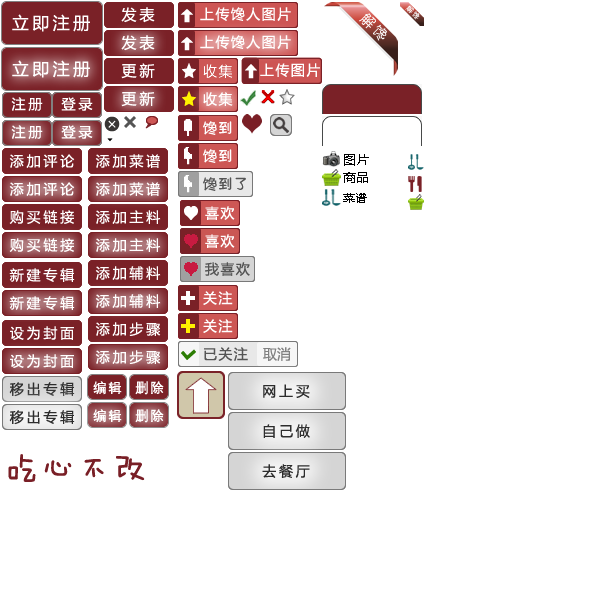
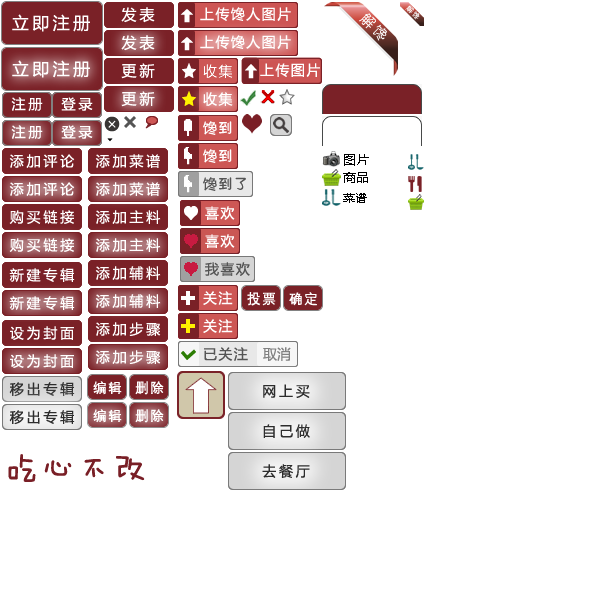
finish some work items

Changed region(s): [[0.39, 0.45, 0.54, 0.54]]

diff --git a/app/assets/stylesheets/buttons.css.scss b/app/assets/stylesheets/buttons.css.scss
@@ -349,3 +349,16 @@ a.btn.btn_edit:hover{
   background: url("buttons.png") -270px -114px no-repeat;
   padding: 0;
 }
+
+.btn.btn_vote {
+    width: 38px;
+    height: 24px;
+    background-position: -242px -286px;
+}
+
+.btn.btn_ok {
+    width: 38px;
+    height: 24px;
+    background-position: -284px -286px;
+}
+

diff --git a/app/models/recipe.rb b/app/models/recipe.rb
@@ -37,7 +37,7 @@ class Recipe
     validates_presence_of :author
     validates_associated :steps
     validates_associated :ingredients
-    validates_length_of :notice, :maximum => 300
+    validates_length_of :notice, :maximum => 400
 
     #callbacks
     #mongoid doesn't call create/update callback on embedded documents

diff --git a/app/models/message.rb b/app/models/message.rb
@@ -14,7 +14,7 @@ class Message
   validates_presence_of :from_id
   validates_presence_of :to_id
   validates_presence_of :content
-  validates_length_of :content, :maximum => 300
+  validates_length_of :content, :maximum => 400
 
   def from
     @from ||= User.first(conditions: {_id: self.from_id})

diff --git a/config/initializers/global_constants.rb b/config/initializers/global_constants.rb
@@ -16,7 +16,7 @@ DESIRE_SOLVED_BAR_RATIO = 0.3
 TAG_CLOUD_COUNT = 50
 CACHED_HOT_TAGS = 50
 MAX_TAGS = 10
-MAX_DESIRE_CONTENT_LENGTH = 280
+MAX_DESIRE_CONTENT_LENGTH = 1000
 HEADLINES_ONE_HOME_PAGE = 4
 INACTIVE_USER_ROLE = 1
 NORMAL_USER_ROLE = 3

diff --git a/app/models/solution.rb b/app/models/solution.rb
@@ -16,7 +16,7 @@ class Solution
   embeds_many :votes
 
   #validations
-  validates_length_of :content, :maximum => 280
+  validates_length_of :content, :maximum => 1000
 
   def item
     @item ||= (place || product || recipe)

diff --git a/app/models/vote.rb b/app/models/vote.rb
@@ -10,7 +10,7 @@ class Vote
   #relationships
   embedded_in :solution
 
-  validates_length_of :content, :maximum => 280
+  validates_length_of :content, :maximum => 400
 
   def voter
     @voter ||= User.find(voter_id)

diff --git a/app/models/step.rb b/app/models/step.rb
@@ -13,6 +13,6 @@ class Step
   embedded_in :recipe
 
   #validations
-  validates_length_of :content, :maximum => 200
+  validates_length_of :content, :maximum => 400
 
 end
